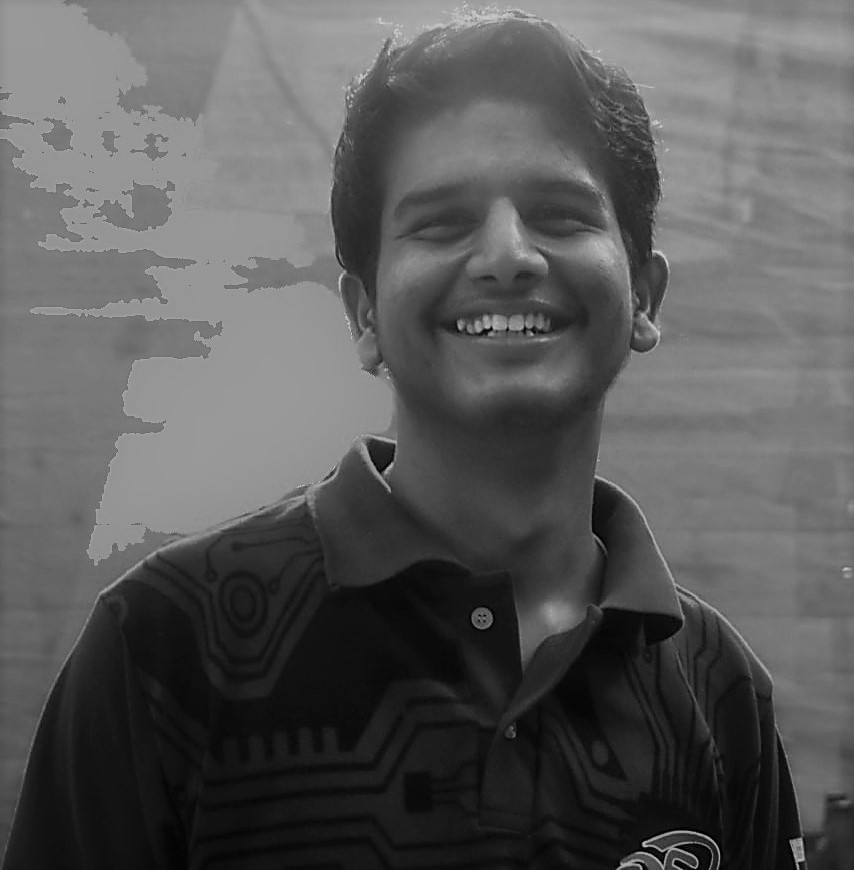
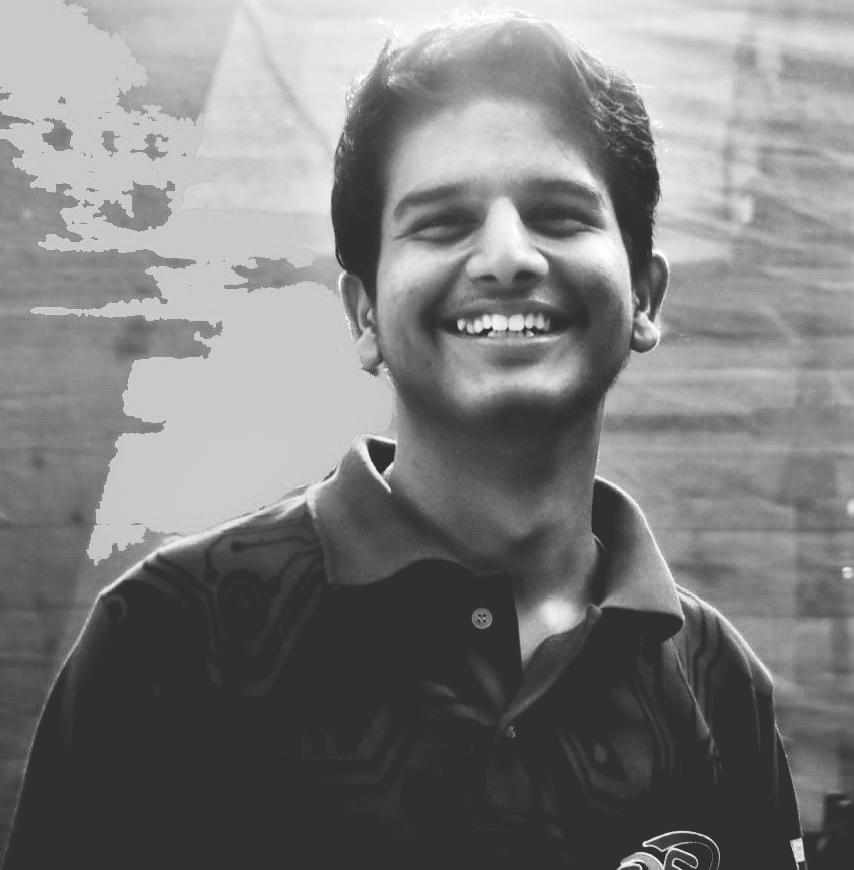
sabko chikna banaya team me

diff --git a/index.html b/index.html
@@ -604,7 +604,7 @@
 						<div class="swiper-wrapper">
 							<div class="swiper-slide">
 								<div class="image">
-									<img src="img/robin.jpeg">
+									<img src="img/Robin.jpg">
 								</div>
 								<div class="details">
 									<h5>ROBIN KUMAR PATRA<br><p>Coordinator E-Cell, VSSUT</p>
@@ -619,7 +619,7 @@
 
 							<div class="swiper-slide">
 								<div class="image">
-									<img src="img/Nikita1.jpg">
+									<img src="img/Nikita.jpg">
 								</div>
 								<div class="details">
 									<h5>NIKITA AGRAWAL<br><p>Chief Coordinator</p>
@@ -633,7 +633,7 @@
 
 							<div class="swiper-slide">
 								<div class="image">
-									<img src="img/Ankan%20.jpg">
+									<img src="img/Ankan.jpg">
 								</div>
 								<div class="details">
 									<h5>ANKAN BISWAS<br><p>Programme Manager</p>
@@ -649,7 +649,7 @@
 
 							<div class="swiper-slide">
 								<div class="image">
-									<img src="img/Shivangee.jpeg">
+									<img src="img/Shivangee.jpg">
 								</div>
 								<div class="details">
 									<h5>SHIVANGEE SONI<br><p>Public Relations Head</p>
@@ -662,6 +662,22 @@
 								</div>
 							</div>
 
+                            <div class="swiper-slide">
+								<div class="image">
+									<img src="img/Vikalp.jpg">
+								</div>
+								<div class="details">
+									<h5>VIKALP MISHRA<br><p>Designing Head</p>
+										<div class="social d-flex align-items-center justify-content-center">
+											<a href="https://www.facebook.com/vikalp.mishra.3572 " target="_blank"><i class="fa fa-facebook fa-lg"></i></a>
+											<!--a href="#"><i class="fa fa-twitter"></i></a-->
+											<a href=" https://www.linkedin.com/in/vikalp-mishra-1b898317a/" target="_blank"><i class="fa fa-linkedin fa-lg"></i></a>
+										</div>
+									</h5>
+								</div>
+							</div>
+
+                            
 							<div class="swiper-slide">
 								<div class="image">
 									<img src="img/Altamas.jpg">
@@ -679,7 +695,7 @@
 
 							<div class="swiper-slide">
 								<div class="image">
-									<img src="img/Nafi.jpg">
+									<img src="img/Nafisa.jpg">
 								</div>
 								<div class="details">
 									<h5>NAFISA FIRDOSH<br><p>Outreach and Marketing Head</p>
@@ -692,25 +708,11 @@
 								</div>
 							</div>
 
-							<div class="swiper-slide">
-								<div class="image">
-									<img src="img/Vikalp2.jpeg">
-								</div>
-								<div class="details">
-									<h5>VIKALP MISHRA<br><p>Designing Head</p>
-										<div class="social d-flex align-items-center justify-content-center">
-											<a href="https://www.facebook.com/vikalp.mishra.3572 " target="_blank"><i class="fa fa-facebook fa-lg"></i></a>
-											<!--a href="#"><i class="fa fa-twitter"></i></a-->
-											<a href=" https://www.linkedin.com/in/vikalp-mishra-1b898317a/" target="_blank"><i class="fa fa-linkedin fa-lg"></i></a>
-										</div>
-									</h5>
-								</div>
-							</div>
-
+							
 
 							<div class="swiper-slide">
 								<div class="image">
-									<img src="img/Yash1.jpg"></div>
+									<img src="img/Yash.jpg"></div>
 									<div class="details">
 										<h5>YASH RAJ<br><p>Social Media Head</p>
 											<div class="social d-flex align-items-center justify-content-center">

diff --git a/css/main.css b/css/main.css
@@ -1102,7 +1102,7 @@ td, th {
 }
 
 .banner-area {
-  background: url(../img/vector/vbg.jpg) no-repeat center center/cover;
+  background: url(../img/vector/vbg1.jpg) no-repeat center center/cover;
 }
 
 /* .banner-area .overlay-bg {
